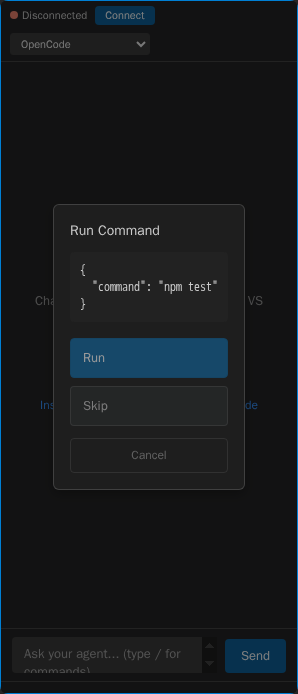
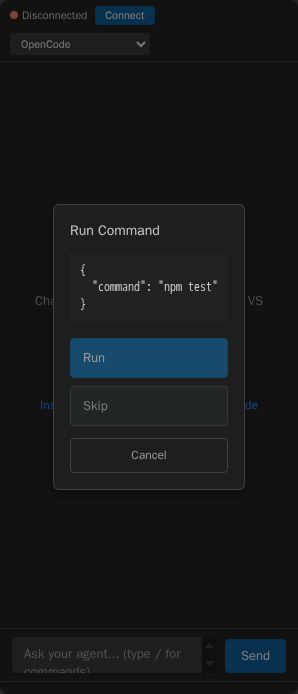
fix(permission): guard every prompt against repeat input
The repeat-input lock only covered requests dequeued behind another
prompt. A request shown while nothing was pending focused the first
agent-supplied option, which the stylesheet renders as the primary
action, with no lock: one auto-repeat Enter held in the chat input
selected it before the user could read the request.

Every prompt now opens with its options inert and focus on the dialog,
and the lock covers only the options. Cancel, Escape and backdrop click
stay live throughout, since denial is always the safe outcome.

diff --git a/src/test/webview.test.ts b/src/test/webview.test.ts
@@ -88,6 +88,36 @@ function createWebviewHTML(): string {
 </html>`;
 }
 
+/**
+ * Replaces a JSDOM window's timer functions with ones the test drives, so the
+ * permission repeat-input guard can be released deterministically instead of
+ * by sleeping.
+ */
+function installControllableTimers(win: Window): () => void {
+  const pending = new Map<number, () => void>();
+  let nextHandle = 0;
+
+  Object.defineProperty(win, "setTimeout", {
+    configurable: true,
+    writable: true,
+    value: (callback: () => void) => {
+      pending.set(++nextHandle, callback);
+      return nextHandle;
+    },
+  });
+  Object.defineProperty(win, "clearTimeout", {
+    configurable: true,
+    writable: true,
+    value: (handle: number) => pending.delete(handle),
+  });
+
+  return () => {
+    const due = [...pending.values()];
+    pending.clear();
+    due.forEach((callback) => callback());
+  };
+}
+
 suite("Webview", () => {
   suite("escapeHtml", () => {
     test("escapes ampersands", () => {
@@ -1353,16 +1383,15 @@ suite("Webview", () => {
     let document: Document;
     let mockVsCode: ReturnType<typeof createMockVsCodeApi>;
     let controller: WebviewController;
+    let releasePermissionGuard: () => void;
 
     setup(() => {
       dom = new JSDOM(createWebviewHTML(), { runScripts: "dangerously" });
       document = dom.window.document;
       mockVsCode = createMockVsCodeApi();
-      controller = initWebview(
-        mockVsCode,
-        document,
-        dom.window as unknown as Window
-      );
+      const win = dom.window as unknown as Window;
+      releasePermissionGuard = installControllableTimers(win);
+      controller = initWebview(mockVsCode, document, win);
       mockVsCode._clearMessages();
     });
 
@@ -1423,22 +1452,93 @@ suite("Webview", () => {
       const options = [{ id: "allow", label: "Allow" }];
 
       controller.showPermissionModal("req-100", "Test", "content", options);
+      releasePermissionGuard();
 
       const optionBtn = document.querySelector(
         ".permission-option-btn"
       ) as HTMLButtonElement;
       optionBtn?.click();
 
-      const messages = mockVsCode._getMessages();
-      const response = messages.find(
-        (m: unknown) => (m as { type: string }).type === "permissionResponse"
+      assert.deepStrictEqual(mockVsCode._getMessages(), [
+        {
+          type: "permissionResponse",
+          requestId: "req-100",
+          optionId: "allow",
+        },
+      ]);
+    });
+
+    test("a new prompt starts inert with focus on the dialog, not an option", () => {
+      const input = document.getElementById("input") as HTMLTextAreaElement;
+      input.focus();
+
+      controller.showPermissionModal("req-guard", "Write File", "c", [
+        { id: "allow_always", label: "Allow Always" },
+        { id: "reject_once", label: "Reject" },
+      ]);
+
+      const modal = document.getElementById("permission-modal");
+      assert.strictEqual(document.activeElement, modal);
+
+      const optionButtons = [
+        ...document.querySelectorAll<HTMLButtonElement>(
+          ".permission-option-btn"
+        ),
+      ];
+      assert.deepStrictEqual(
+        optionButtons.map((button) => button.disabled),
+        [true, true]
       );
-      assert.ok(response);
-      assert.strictEqual(
-        (response as { requestId: string }).requestId,
-        "req-100"
+
+      optionButtons[0].click();
+      assert.deepStrictEqual(mockVsCode._getMessages(), []);
+
+      releasePermissionGuard();
+      assert.deepStrictEqual(
+        optionButtons.map((button) => button.disabled),
+        [false, false]
       );
-      assert.strictEqual((response as { optionId: string }).optionId, "allow");
+
+      optionButtons[0].click();
+      assert.deepStrictEqual(mockVsCode._getMessages(), [
+        {
+          type: "permissionResponse",
+          requestId: "req-guard",
+          optionId: "allow_always",
+        },
+      ]);
+    });
+
+    test("denial stays available while the options are still guarded", () => {
+      controller.showPermissionModal("req-deny", "Write File", "c", [
+        { id: "allow_always", label: "Allow Always" },
+      ]);
+
+      const cancelBtn = document.querySelector(
+        ".permission-cancel-btn"
+      ) as HTMLButtonElement;
+      assert.strictEqual(cancelBtn.disabled, false);
+
+      document.dispatchEvent(
+        new dom.window.KeyboardEvent("keydown", {
+          key: "Escape",
+          bubbles: true,
+          cancelable: true,
+        })
+      );
+
+      assert.ok(
+        !document
+          .getElementById("permission-modal")
+          ?.classList.contains("visible")
+      );
+      assert.deepStrictEqual(mockVsCode._getMessages(), [
+        {
+          type: "permissionResponse",
+          requestId: "req-deny",
+          cancelled: true,
+        },
+      ]);
     });
 
     test("cancelPermission sends cancelled response", () => {
@@ -1497,16 +1597,16 @@ suite("Webview", () => {
       assert.strictEqual(title?.textContent, "Second");
       assert.ok(modal?.classList.contains("visible"));
 
-      const messages = mockVsCode._getMessages() as Array<{
-        requestId: string;
-        cancelled?: boolean;
-      }>;
-      assert.strictEqual(messages.length, 1);
-      assert.strictEqual(messages[0].requestId, "req-1");
+      assert.deepStrictEqual(mockVsCode._getMessages(), [
+        { type: "permissionResponse", requestId: "req-1", cancelled: true },
+      ]);
       assert.strictEqual(document.activeElement, modal);
-      controller.cancelPermission();
-      assert.strictEqual(messages.length, 1);
-      assert.strictEqual(title?.textContent, "Second");
+      assert.strictEqual(
+        modal?.querySelector<HTMLButtonElement>(".permission-option-btn")
+          ?.disabled,
+        true
+      );
+
       document.dispatchEvent(
         new dom.window.KeyboardEvent("keydown", {
           key: "Tab",
@@ -1529,6 +1629,7 @@ suite("Webview", () => {
         { id: "b", label: "B" },
       ]);
 
+      releasePermissionGuard();
       const optionBtn = document.querySelector(
         ".permission-option-btn"
       ) as HTMLButtonElement;
@@ -1539,13 +1640,9 @@ suite("Webview", () => {
       assert.strictEqual(title?.textContent, "Second");
       assert.ok(modal?.classList.contains("visible"));
 
-      const messages = mockVsCode._getMessages() as Array<{
-        requestId: string;
-        optionId?: string;
-      }>;
-      assert.strictEqual(messages.length, 1);
-      assert.strictEqual(messages[0].requestId, "req-1");
-      assert.strictEqual(messages[0].optionId, "allow");
+      assert.deepStrictEqual(mockVsCode._getMessages(), [
+        { type: "permissionResponse", requestId: "req-1", optionId: "allow" },
+      ]);
       controller.hidePermissionModal();
     });
 
@@ -1557,6 +1654,7 @@ suite("Webview", () => {
         { id: "allow-2", label: "Allow second" },
       ]);
 
+      releasePermissionGuard();
       const firstButton = document.querySelector(
         ".permission-option-btn"
       ) as HTMLButtonElement;
@@ -1568,11 +1666,7 @@ suite("Webview", () => {
       assert.strictEqual(secondButton.disabled, true);
       secondButton.click();
 
-      const responses = mockVsCode._getMessages() as Array<{
-        requestId: string;
-        optionId?: string;
-      }>;
-      assert.deepStrictEqual(responses, [
+      assert.deepStrictEqual(mockVsCode._getMessages(), [
         { type: "permissionResponse", requestId: "req-1", optionId: "allow-1" },
       ]);
       assert.strictEqual(

diff --git a/src/views/webview/main.ts b/src/views/webview/main.ts
@@ -93,7 +93,12 @@ export interface ExtensionMessage {
   options?: PermissionOption[];
 }
 
-const QUEUED_PERMISSION_GUARD_MS = 500;
+/**
+ * How long a freshly shown permission prompt keeps its agent-supplied options
+ * inert, so held keys or double clicks aimed at the previous screen cannot
+ * decide a request the user has not read yet.
+ */
+const PERMISSION_GUARD_MS = 500;
 
 export function escapeHtml(str: string): string {
   return str
@@ -1273,8 +1278,7 @@ export class WebviewController {
     requestId: string,
     title: string | undefined,
     content: unknown,
-    options: PermissionOption[],
-    fromQueue = false
+    options: PermissionOption[]
   ): void {
     this.pendingPermissionRequestId = requestId;
     this.previouslyFocusedElement = this.doc.activeElement as HTMLElement;
@@ -1288,7 +1292,11 @@ export class WebviewController {
       this.win.clearTimeout(this.permissionUnlockTimer);
       this.permissionUnlockTimer = null;
     }
-    this.permissionControlsLocked = fromQueue;
+    // Every prompt starts locked: a key held down or a double click aimed at
+    // whatever was on screen before must never land on an agent-supplied
+    // option. Denial (Cancel/Escape/backdrop) stays available throughout,
+    // because failing closed is always safe.
+    this.permissionControlsLocked = true;
 
     const modal = this.elements.permissionModal;
 
@@ -1309,7 +1317,7 @@ export class WebviewController {
       const btn = this.doc.createElement("button");
       btn.className = "permission-option-btn";
       btn.dataset.optionId = opt.id;
-      btn.disabled = fromQueue;
+      btn.disabled = true;
       const label = this.doc.createElement("span");
       label.className = "option-label";
       label.textContent = opt.label;
@@ -1335,36 +1343,18 @@ export class WebviewController {
     };
     this.doc.addEventListener("keydown", this.permissionKeydownHandler);
 
-    const cancelBtn = modal.querySelector(
-      ".permission-cancel-btn"
-    ) as HTMLButtonElement | null;
-    if (cancelBtn) {
-      cancelBtn.disabled = fromQueue;
-    }
-    const firstBtn = optionsEl.querySelector(
-      "button"
-    ) as HTMLButtonElement | null;
-    if (fromQueue) {
-      this.permissionUnlockTimer = this.win.setTimeout(() => {
-        if (this.pendingPermissionRequestId === requestId) {
-          this.setPermissionControlsLocked(false);
-        }
-      }, QUEUED_PERMISSION_GUARD_MS);
-    }
+    this.permissionUnlockTimer = this.win.setTimeout(() => {
+      if (this.pendingPermissionRequestId === requestId) {
+        this.setPermissionControlsLocked(false);
+      }
+    }, PERMISSION_GUARD_MS);
 
-    const focusTarget = fromQueue ? modal : firstBtn || cancelBtn;
-    if (focusTarget) {
-      focusTarget.focus();
-    } else {
-      modal.focus();
-    }
+    modal.focus();
   }
 
   private setPermissionControlsLocked(locked: boolean): void {
     this.elements.permissionModal
-      .querySelectorAll<HTMLButtonElement>(
-        ".permission-option-btn, .permission-cancel-btn"
-      )
+      .querySelectorAll<HTMLButtonElement>(".permission-option-btn")
       .forEach((button) => {
         button.disabled = locked;
       });
@@ -1446,8 +1436,7 @@ export class WebviewController {
         next.requestId,
         next.title,
         next.content,
-        next.options,
-        true
+        next.options
       );
     }
   }
@@ -1470,6 +1459,9 @@ export class WebviewController {
   }
 
   private handlePermissionOption(optionId: string): void {
+    if (this.permissionControlsLocked) {
+      return;
+    }
     if (this.pendingPermissionRequestId) {
       this.vscode.postMessage({
         type: "permissionResponse",
@@ -1481,9 +1473,6 @@ export class WebviewController {
   }
 
   cancelPermission(): void {
-    if (this.permissionControlsLocked) {
-      return;
-    }
     if (this.pendingPermissionRequestId) {
       this.vscode.postMessage({
         type: "permissionResponse",

diff --git a/e2e/permission-modal.spec.ts b/e2e/permission-modal.spec.ts
@@ -48,6 +48,21 @@ test.describe("Permission Request Modal", () => {
     await expect(frame.locator(".permission-title")).toHaveText("Write File");
     await expect(frame.locator(".permission-option-btn")).toHaveCount(3);
 
+    // The prompt opens inert: the dialog, not an approval button, holds focus
+    // and every agent-supplied option is disabled, so input aimed at whatever
+    // was on screen before cannot decide an unread request.
+    await expect(
+      frame.locator(".permission-option-btn").first()
+    ).toBeDisabled();
+    expect(await frame.evaluate(() => document.activeElement?.id)).toBe(
+      "permission-modal"
+    );
+    await expect(frame.locator(".permission-cancel-btn")).toBeEnabled();
+
+    await expect(frame.locator(".permission-option-btn").first()).toBeEnabled({
+      timeout: 1500,
+    });
+
     const sidebarLocator = window.locator(
       ".split-view-view.visible .pane-body"
     );
@@ -143,7 +158,9 @@ test.describe("Permission Request Modal", () => {
     const modal = frame.locator("#permission-modal");
     await expect(modal).toHaveClass(/visible/);
 
-    await frame.locator(".permission-option-btn").first().press("Escape");
+    // Escape reaches the dialog while its options are still guarded: denial
+    // must never be delayed by the repeat-input protection.
+    await frame.locator("#permission-modal").press("Escape");
 
     await expect(modal).not.toHaveClass(/visible/);
     await expect(frame.locator("#input")).toBeFocused();

diff --git a/media/main.css b/media/main.css
@@ -1038,8 +1038,7 @@ kbd {
   background: var(--vscode-button-hoverBackground);
 }
 
-.permission-option-btn:disabled,
-.permission-cancel-btn:disabled {
+.permission-option-btn:disabled {
   opacity: 0.55;
   cursor: wait;
 }
